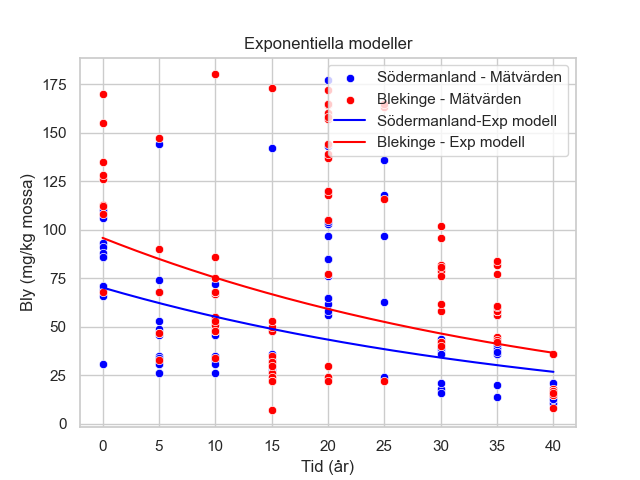
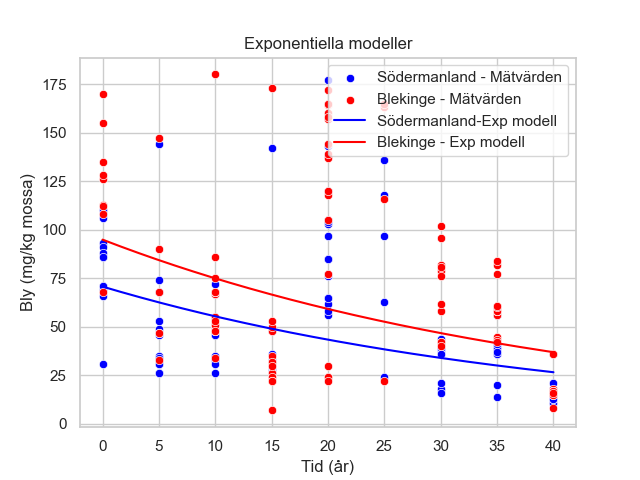
Löst kalibreringsintervall, äntligen........

diff --git a/MatstatProjekt.py b/MatstatProjekt.py
@@ -89,22 +89,24 @@ sns.histplot(x=epsilon_exp,stat='density',kde=True,ax=axs[1])
 plt.savefig('Grafer/Histogram.png')
 plt.show()
 
+
 #%% Multipel Regression Exponentiell 
 Pb['Lan_I'] = [0 if Lan == 'Blekinge län' else 1 for Lan in Pb['Lan'].values]
-
+Pb['log_Pb']=np.log(Pb['Pb'])
 #Regression på våra logaritmerade blyhalter som en funktion av tid och län 
-res_mult_log = smf.ols(formula='np.log(Pb)~Year1975+Lan_I',data=Pb).fit()
+res_mult_log = smf.ols(formula='log_Pb~Lan_I + Year1975 + Lan_I:Year1975',data=Pb).fit()
 print(res_mult_log.summary())
 
-#Våra parametrar från vår multipel regression
-C, k1, k2 = np.exp(res_mult_log.params[0]), res_mult_log.params[1], res_mult_log.params[2]
+#Våra parametrar från vår multipel regression beta_0,,,beta_4=beta[0]...beta[4]
+beta_exp = [res_mult_log.params['Intercept'], res_mult_log.params['Lan_I'], res_mult_log.params['Year1975'], res_mult_log.params['Lan_I:Year1975']]
 
 #Våra tidsvärden mellan 1975 och 2015
 t = np.linspace(0, 40, 200)
 
 #Värdena på våra exponentiella funktioner för respektive län
-y_exp_S = C*np.exp(t*k1)*np.exp(k2)
-y_exp_B = C*np.exp(t*k1)
+y_exp_S = np.exp(beta_exp[0]+beta_exp[1])*np.exp(t*(beta_exp[2]+beta_exp[3]))
+y_exp_B = np.exp(beta_exp[0])*np.exp(t*beta_exp[2])
+
 
 #plt.scatter(Pb_S['Year1975'].values, Pb_S['Pb'].values, c='blue')
 #plt.scatter(Pb_B['Year1975'].values, Pb_B['Pb'].values, c='red')
@@ -127,9 +129,12 @@ plt.title("Exponentiella modeller")
 #Sparar och visar grafen med våra exponentiella modeller
 plt.savefig('Grafer/ExpModeller.png')
 plt.show()
+
 #%% Lineär modell Multipel regression
-#res_mult_lin = smf.ols(formula='Pb ~ C(Lan) + Year1975 + C(Lan):Year1975', data=Pb).fit()
-#%% Prediktion 2025
+res_mult_lin = smf.ols(formula='Pb ~ Lan_I + Year1975 + Lan_I:Year1975', data=Pb).fit()
+print(res_mult_lin.summary())
+beta_lin=[res_mult_lin.params['Intercept'], res_mult_lin.params['Lan_I'], res_mult_lin.params['Year1975'], res_mult_lin.params['Lan_I:Year1975']]
+#%% Prediktion 2025 exp
 Pb_0=pd.DataFrame({'Year1975' : [50, 50],'Lan_I' : [0, 1]})
 Pred=res_mult_log.get_prediction(Pb_0).summary_frame(alpha=0.05)
 
@@ -142,27 +147,34 @@ print('Södermanland:'+str(Pred_S_2025) )
 pred_data = [Pred_S_2025,Pred_B_2025]
 columns = ['Mitten','Undre','Övre']
 
-#%%Nytt försök Prediktion 10mg/g (Sörmland)
-cov=res_mult_log.cov_params()
-cov_matrix=[[cov['Intercept'][0],cov['Year1975'][0]],[cov['Intercept'][1],cov['Year1975'][1]]]
+#%%Nytt försök Prediktion 10mg/g (Sörmland & Blekinge)
+def pred_10mg(reg_mult,beta,y0):
+    cov=reg_mult.cov_params()
 
-print (str(cov))
-print(str(cov_matrix))
+    x0_S=(y0-beta[0]-beta[1])/(beta[2]+beta[3])+1975
+    x0_B=(y0-beta[0])/(beta[2])+1975
+    sim=stats.multivariate_normal.rvs(mean=beta,cov=cov,size=10000)
+    params = []
+    for x in range(4):
+    # Adjusted quantile values to get the 2.5th and 97.5th percentiles
+        param = np.quantile(sim[:, x], [0.025, 0.975])
+        params.append(param)
+    print(str(params))
+ #anv inte param[3] för den ger orimliga intervall. Är ändå insignifikant
+# Adjusted indices when calculating upper and lower bounds
+    x0_S_Ö = (y0 - params[0][1] - params[1][1]) / (params[2][1]) + 1975
+    x0_S_U = (y0 - params[0][0] - params[1][0]) / (params[2][0]) + 1975
+
+    x0_B_Ö = (y0 - params[0][1]) / (params[2][1]) + 1975
+    x0_B_U = (y0 - params[0][0]) / (params[2][0]) + 1975
+
+    print("PREDICTION year for 10mg [Undre, Mean, Övre]")
+    print('Blekinge:', str(x0_B_U) + ', ' + str(x0_B) + ', ' + str(x0_B_Ö))
+    print('Södermanland:', str(x0_S_U) + ', ' + str(x0_S) + ', ' + str(x0_S_Ö))
 
 
-x0_S=(np.log(10)-np.log(C)-k2*1)/k1
-x0_B=(np.log(10)-np.log(C)-k2*0)/k1
-vv=[np.log(10),x0_S,k2]
-
-res=stats.multivariate_normal.rvs(mean=vv,cov=cov,size=1000)
-year_quantiles = np.percentile(res[:,1], [2.5, 97.5])
-print(str(year_quantiles))
-print(str(res))
-quant_u = np.quantile(res[:, 1], [0.975])
-quant_l = np.quantile(res[:, 1], [0.025])
-print(str(quant_u))
-print(str(quant_l))
-
+pred_10mg(res_mult_log,beta_exp,np.log(10))
+pred_10mg(res_mult_lin,beta_lin,10)
 
 
 #%%Prediktion när under 10mg/g mossa (Sörmland) (Gaussapproximation)
